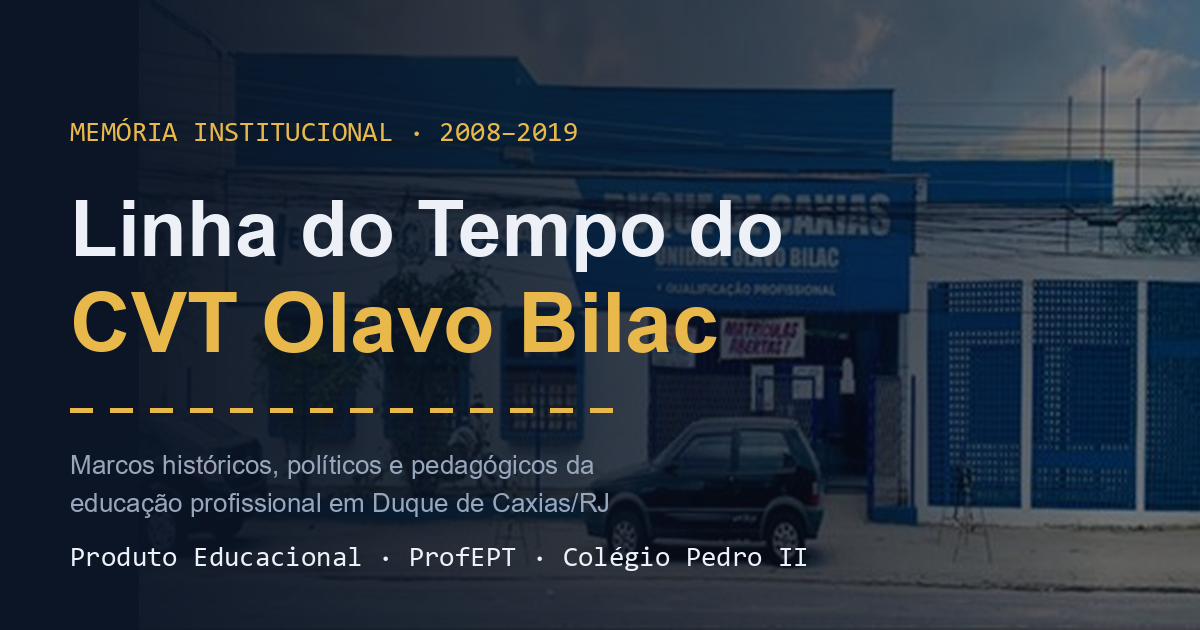
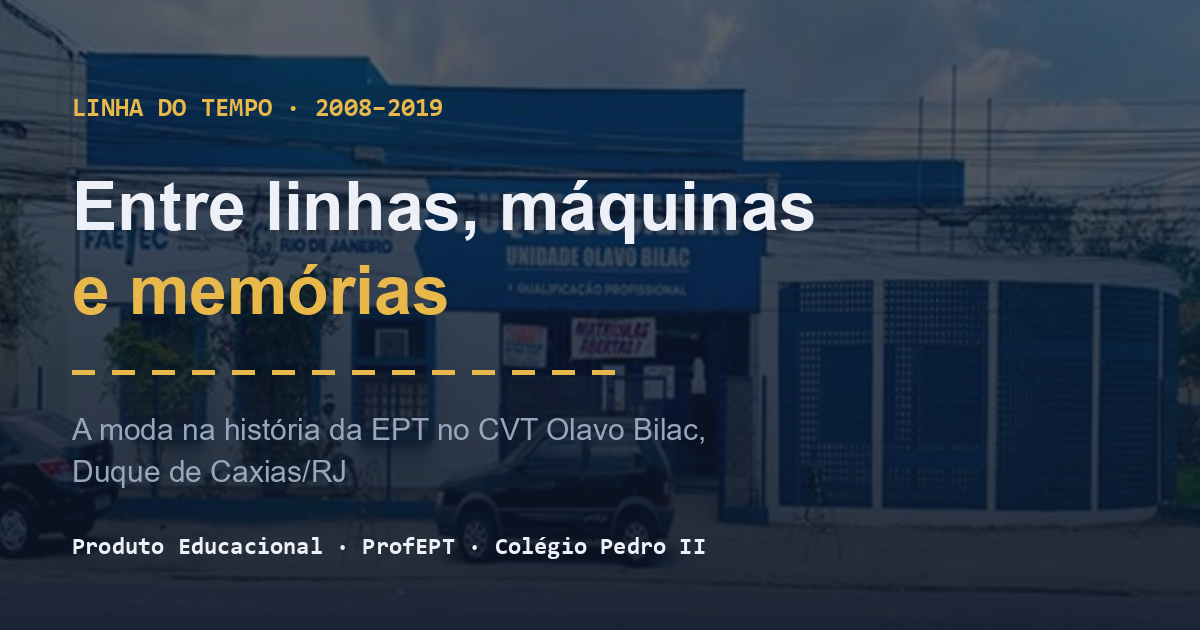
feat: título oficial do produto no hero, metadata, Sobre e imagem OG; ajustes de texto
- "Entre linhas, máquinas e memórias: a moda na história da EPT no CVT Olavo Bilac, Duque de Caxias/RJ" como título em todo o site
- Remove "operário" (evita confusão com o bairro Vila Operária de Duque de Caxias)
- Troca "menores" por "crianças e jovens" no card do CEI

Claude-Session: https://claude.ai/code/session_01StJ7gksYsexVoaeiBeyhvt

diff --git a/components/Hero.tsx b/components/Hero.tsx
@@ -23,18 +23,27 @@ export default function Hero() {
           transition={{ duration: 0.5 }}
           className="font-mono text-linha text-xs sm:text-sm tracking-[0.25em] uppercase mb-4"
         >
-          Memória institucional · 2008–2019
+          Linha do Tempo · 2008–2019
         </motion.p>
 
         <motion.h1
           initial={{ opacity: 0, y: 18 }}
           animate={{ opacity: 1, y: 0 }}
           transition={{ duration: 0.6, delay: 0.12 }}
-          className="font-display text-[2.6rem] leading-[1.02] sm:text-6xl md:text-7xl font-extrabold"
+          className="font-display text-[2.2rem] leading-[1.05] sm:text-5xl md:text-6xl font-extrabold max-w-4xl"
         >
-          Linha do Tempo do{" "}
-          <span className="text-linha">CVT Olavo Bilac</span>
+          Entre linhas, máquinas{" "}
+          <span className="text-linha">e memórias</span>
         </motion.h1>
+
+        <motion.p
+          initial={{ opacity: 0, y: 14 }}
+          animate={{ opacity: 1, y: 0 }}
+          transition={{ duration: 0.6, delay: 0.25 }}
+          className="font-display text-lg sm:text-2xl font-semibold text-texto mt-4 max-w-3xl"
+        >
+          A moda na história da EPT no CVT Olavo Bilac, Duque de Caxias/RJ
+        </motion.p>
 
         <motion.div
           initial={{ scaleX: 0 }}
@@ -52,7 +61,7 @@ export default function Hero() {
           Os marcos históricos, políticos e pedagógicos do Centro Vocacional
           Tecnológico Olavo Bilac, em Duque de Caxias/RJ — onde a educação
           profissional pública encontrou a moda, o carnaval e a luta de um
-          bairro operário da Baixada Fluminense.
+          bairro da Baixada Fluminense.
         </motion.p>
 
         <motion.a

diff --git a/app/layout.tsx b/app/layout.tsx
@@ -24,11 +24,13 @@ const plexMono = IBM_Plex_Mono({
 
 export const metadata: Metadata = {
   metadataBase: new URL("https://linha-do-tempo-cvtobl.vercel.app"),
-  title: "Linha do Tempo do CVT Olavo Bilac — 2008 a 2019",
+  title:
+    "Entre linhas, máquinas e memórias: a moda na história da EPT no CVT Olavo Bilac, Duque de Caxias/RJ",
   description:
-    "Marcos históricos, políticos e pedagógicos do Centro Vocacional Tecnológico Olavo Bilac, em Duque de Caxias/RJ. Produto Educacional do ProfEPT — Colégio Pedro II.",
+    "Linha do tempo (2008–2019) do Centro Vocacional Tecnológico Olavo Bilac, em Duque de Caxias/RJ. Produto Educacional do ProfEPT — Colégio Pedro II.",
   openGraph: {
-    title: "Linha do Tempo do CVT Olavo Bilac — 2008 a 2019",
+    title:
+      "Entre linhas, máquinas e memórias: a moda na história da EPT no CVT Olavo Bilac, Duque de Caxias/RJ",
     description:
       "Memória institucional da educação profissional em Duque de Caxias/RJ. Produto Educacional do ProfEPT — Colégio Pedro II.",
     locale: "pt_BR",

diff --git a/data/timeline.ts b/data/timeline.ts
@@ -23,7 +23,7 @@ export type CartaoContexto = {
 export const contexto: CartaoContexto[] = [
   {
     periodo: "1943",
-    titulo: "Duque de Caxias, cidade operária",
+    titulo: "Duque de Caxias, polo industrial",
     texto:
       "Emancipado de Nova Iguaçu em 1943, o município se transforma em polo industrial com a Fábrica Nacional de Motores, em Xerém, e a Refinaria Duque de Caxias (REDUC), concluída em 1961. O crescimento econômico, porém, convive com desigualdade social e com a carência de serviços públicos.",
     foto: {
@@ -47,7 +47,7 @@ export const contexto: CartaoContexto[] = [
     periodo: "1995–1997",
     titulo: "Do CEI à FAETEC",
     texto:
-      "O Complexo de Quintino deixa de ser espaço de internação de menores e vira centro de formação educacional com o CEI (1995). Em 1997, a Lei estadual n.º 2.735 cria a Fundação de Apoio à Escola Técnica (FAETEC), responsável pela educação profissional pública e gratuita no Estado do Rio de Janeiro.",
+      "O Complexo de Quintino deixa de ser espaço de internação de crianças e jovens e vira centro de formação educacional com o CEI (1995). Em 1997, a Lei estadual n.º 2.735 cria a Fundação de Apoio à Escola Técnica (FAETEC), responsável pela educação profissional pública e gratuita no Estado do Rio de Janeiro.",
     foto: {
       src: "/images/cei-slogan-1996.jpg",
       legenda: "Slogan do CEI utilizado em 1996",
@@ -310,6 +310,8 @@ export const sobreProduto = {
     "Mestrado Profissional em Educação Profissional e Tecnológica (ProfEPT) — Colégio Pedro II",
   linhaPesquisa:
     "Linha de Pesquisa 2: Organização e Memória de Espaços Pedagógicos na EPT — Macroprojeto 4: História e Memórias no contexto da EPT",
+  produto:
+    "Entre linhas, máquinas e memórias: a moda na história da EPT no CVT Olavo Bilac, Duque de Caxias/RJ",
   dissertacao:
     "Identidade, história e memória da Educação Profissional Técnica no município de Duque de Caxias/RJ: um estudo sobre o Centro Vocacional Tecnológico Olavo Bilac",
   ano: "2026",

diff --git a/components/Sobre.tsx b/components/Sobre.tsx
@@ -12,9 +12,9 @@ export default function Sobre() {
         </p>
         <h2
           id="titulo-sobre"
-          className="font-display text-3xl sm:text-4xl font-bold max-w-2xl"
+          className="font-display text-3xl sm:text-4xl font-bold max-w-3xl"
         >
-          Sobre esta Linha do Tempo
+          {sobreProduto.produto}
         </h2>
 
         <div className="mt-8 max-w-3xl">